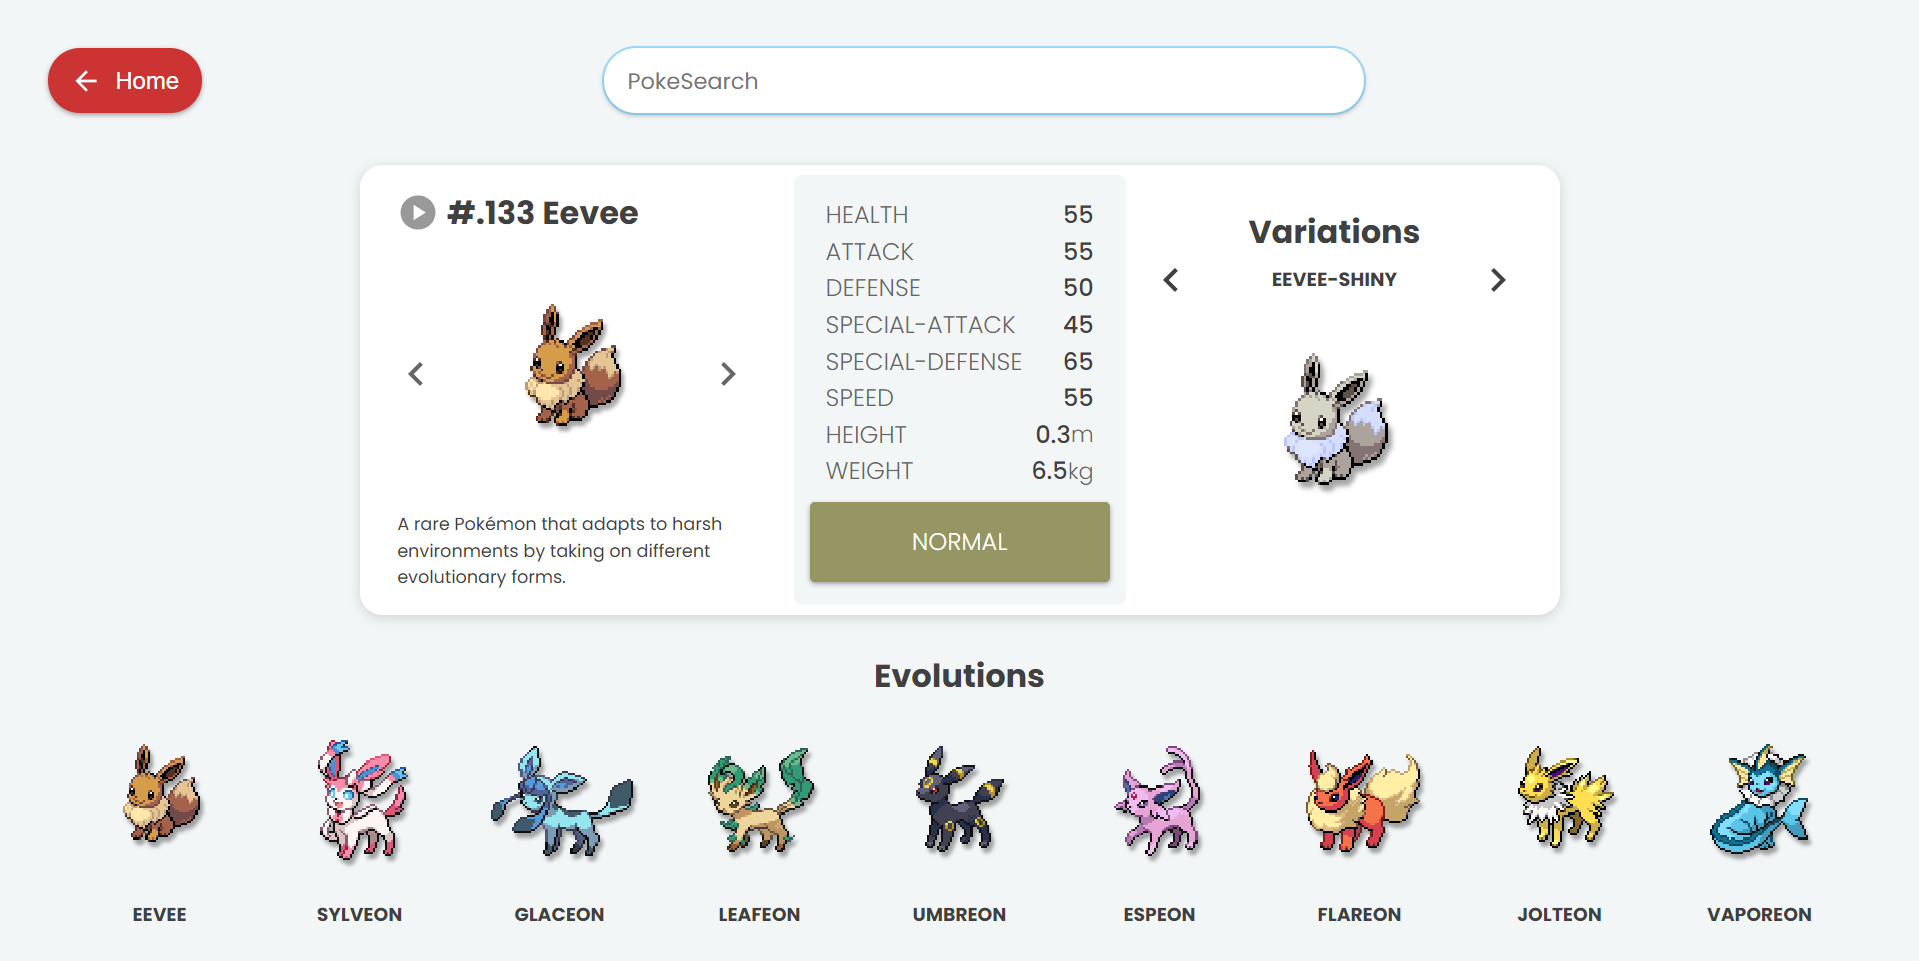
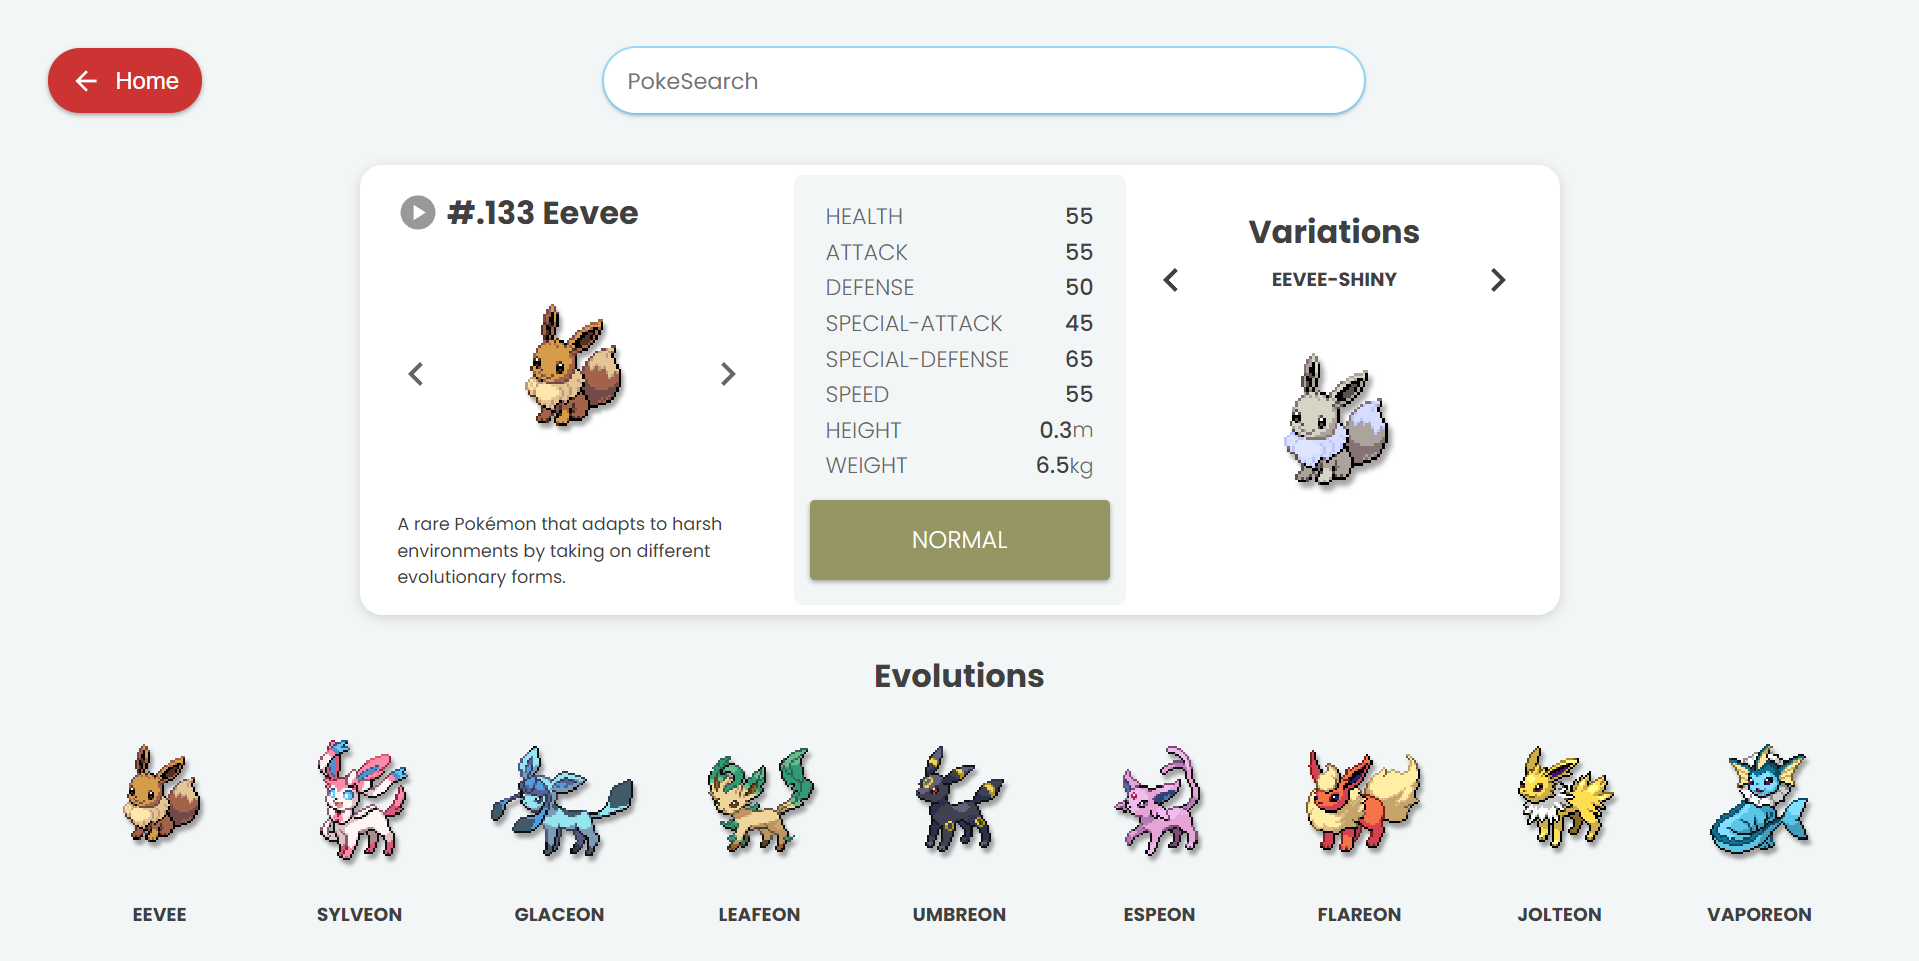
PokeAPI styles update

Changed region(s): [[0.4304, 0.2185, 0.5227, 0.4995], [0.5227, 0.2185, 0.5842, 0.4995], [0.4304, 0.5307, 0.5842, 0.6243]]

diff --git a/src/stylesheets/components/PokePageComponents/PokeInfoContainer.module.scss b/src/stylesheets/components/PokePageComponents/PokeInfoContainer.module.scss
@@ -133,25 +133,25 @@
 
         .statsUnitNumber {
           order: 1;
-          font-size: 1.5rem;
+          font-size: 1.4rem;
           font-weight: 500;
           align-items: center;
           color: variables.$font-color;
 
           .statsUnitDisplay {
             font-weight: 300;
-            font-size: 1.4rem;
+            font-size: 1.3rem;
           }
           @media (max-width: 400px) {
             .statsUnitDisplay {
-              font-size: 1.25rem;
+              font-size: 1.2rem;
             }
           }
         }
 
         .statsUnitName {
           border-top: none;
-          font-size: 1.5rem;
+          font-size: 1.4rem;
           font-weight: 300;
           margin-right: 0.5rem;
           color: variables.$font-color-dark-grey;
@@ -159,7 +159,7 @@
         @media (max-width: 400px) {
           .statsUnitName,
           .statsUnitNumber {
-            font-size: 1.35rem;
+            font-size: 1.3rem;
           }
         }
       }
